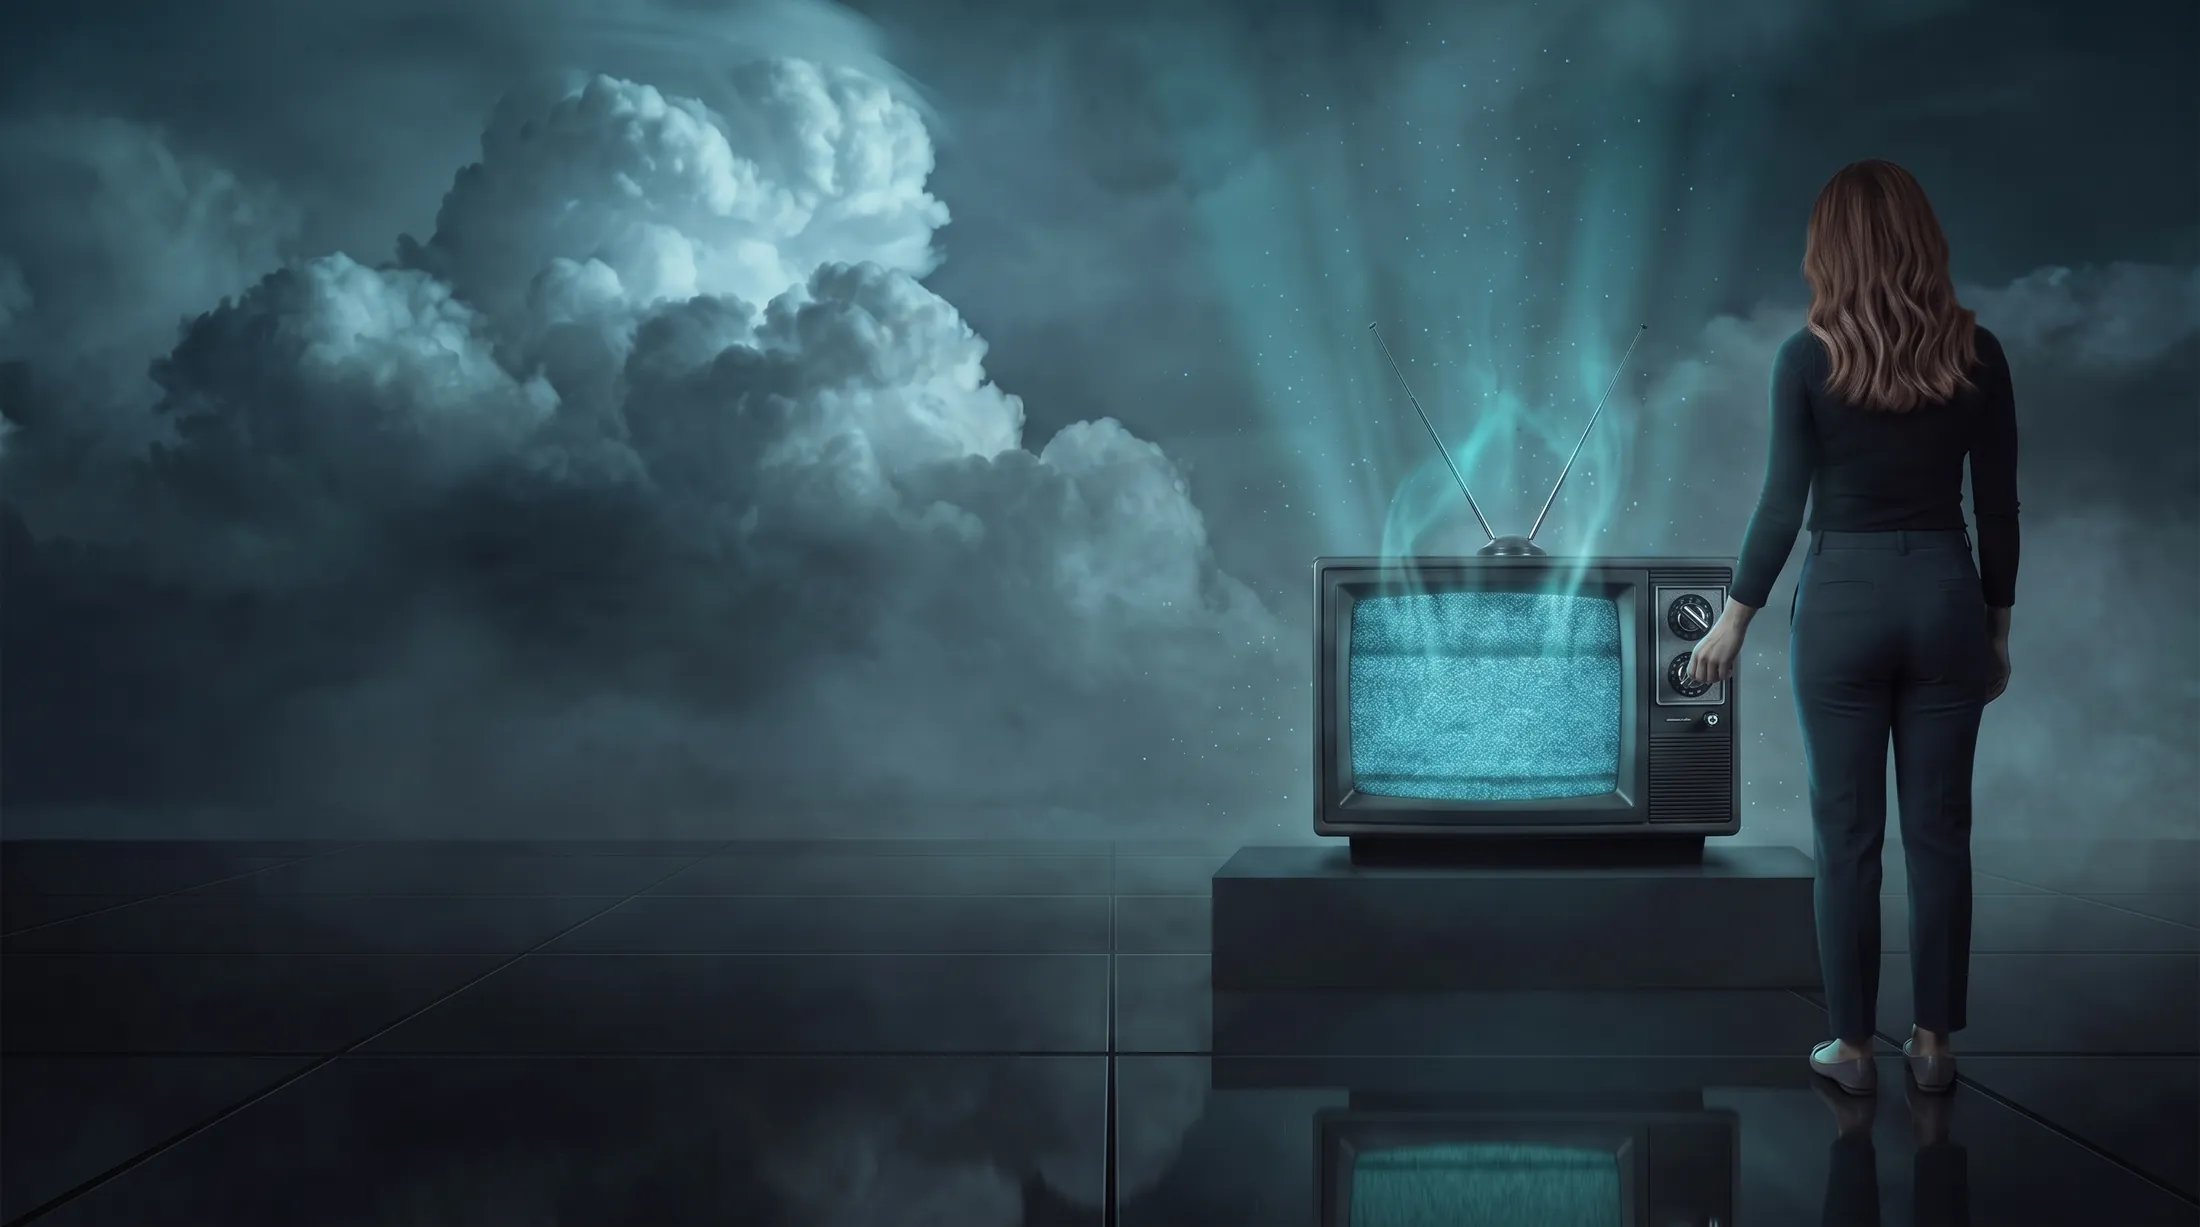
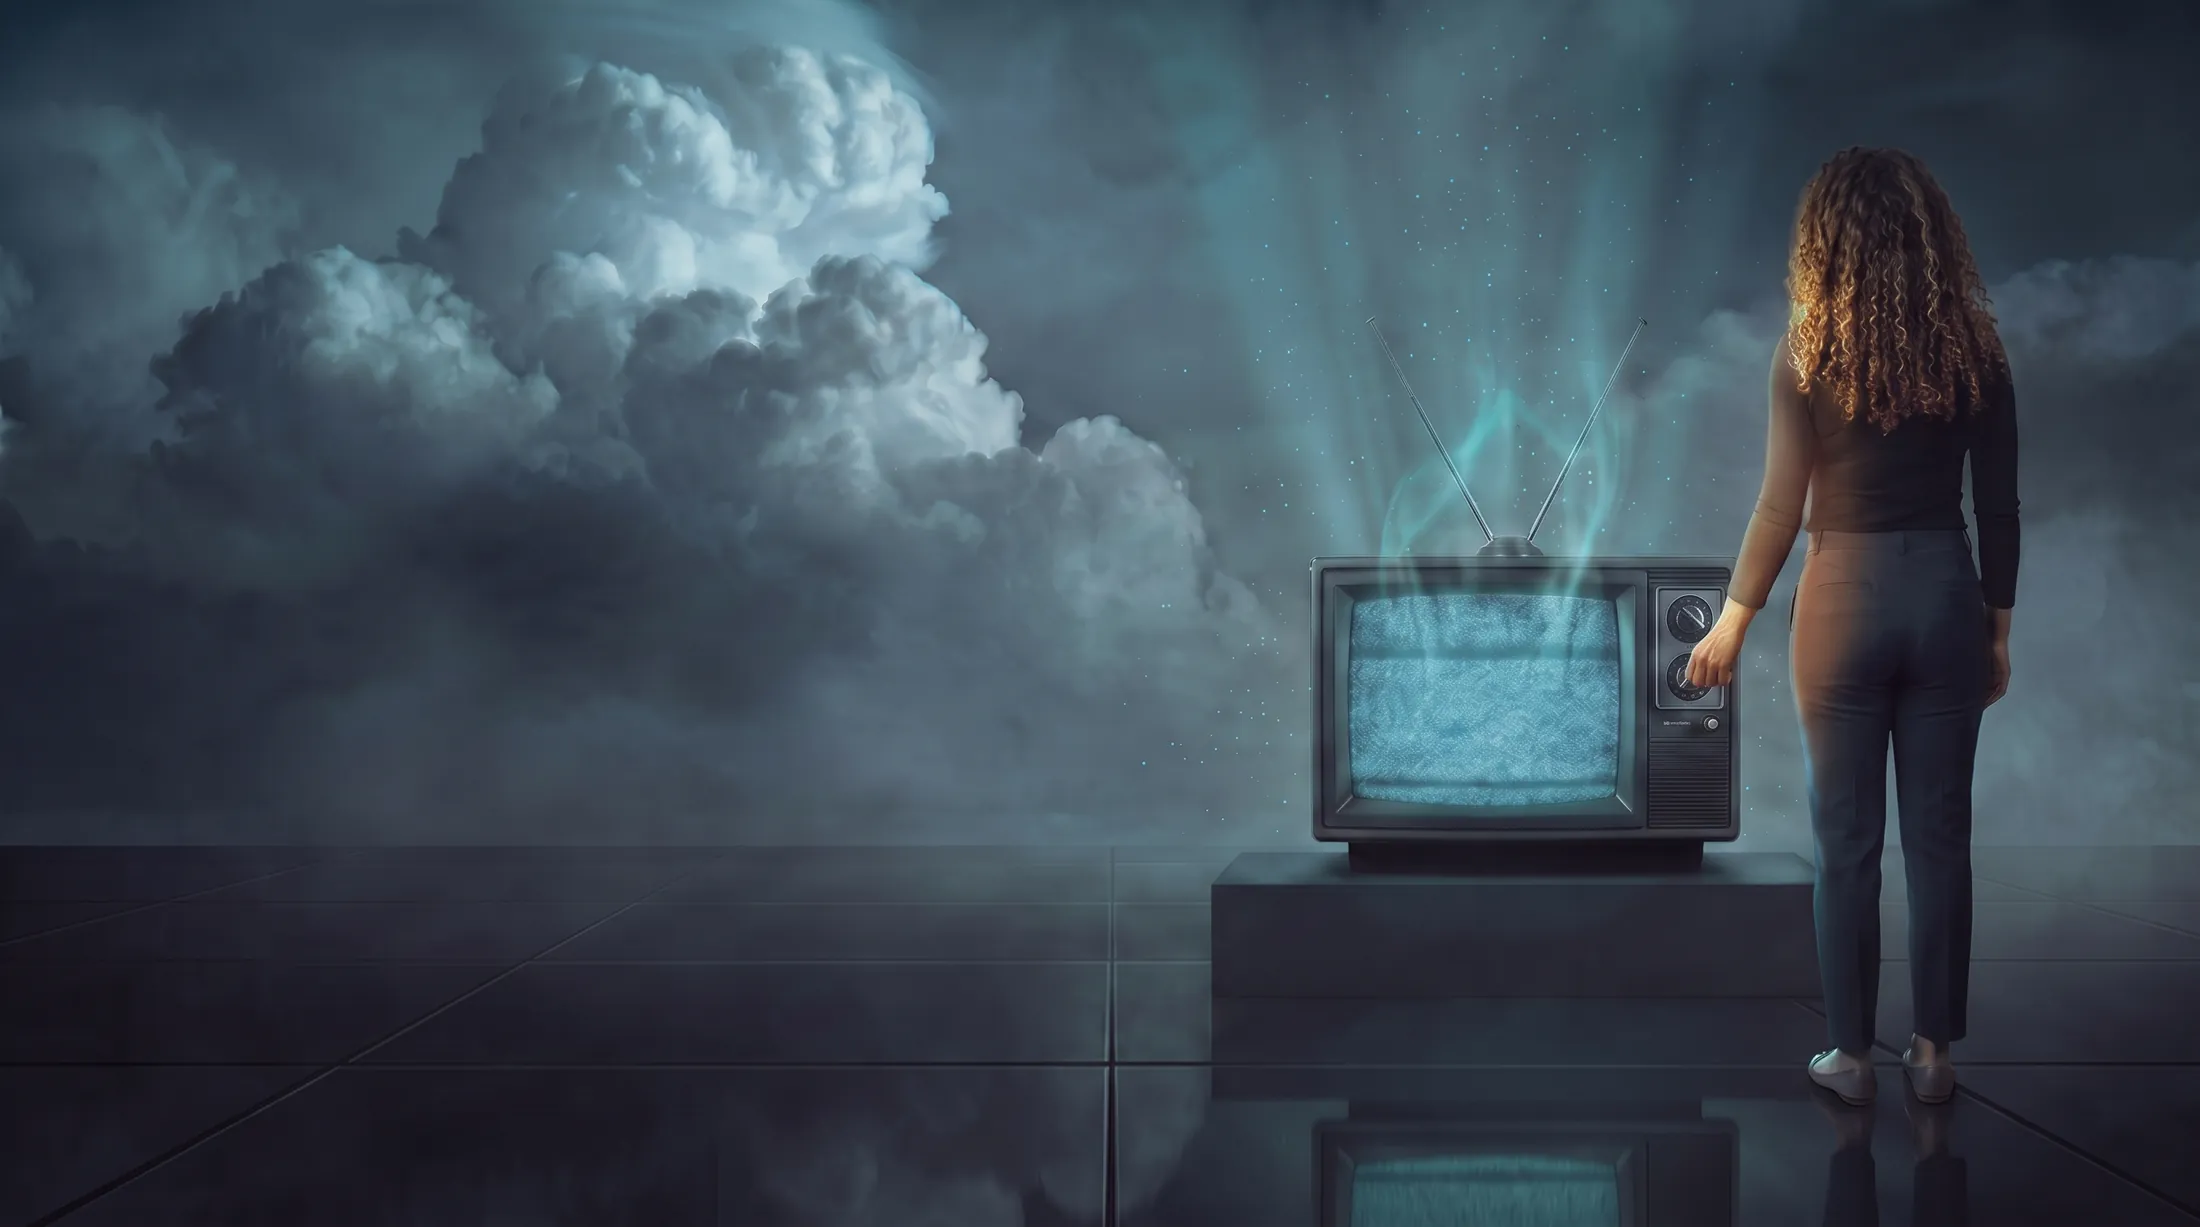
Hero: curly hair and warm skin tone from Ayanna's own photo
Built from her reference photograph: spiral curls at shoulder blade
length, brown, and a warm key on her body so her skin reads true instead
of being washed grey by the teal grade. The frame keeps its teal. The
descent is lengthened back to 230svh so all four lines play, with a
deeper overlap on the travel block to keep the exit near one screen.

diff --git a/app/ops.css b/app/ops.css
@@ -381,9 +381,9 @@ html.ops-has-remote .ops summary {
 .ops-glitch {
   position: absolute;
   left: 61.9%;
-  top: 48.3%;
+  top: 48.8%;
   width: 11.1%;
-  height: 15.7%;
+  height: 16%;
   overflow: hidden;
   border-radius: 13% / 15%;
   /* feather the edges so the static never crosses the bezel */
@@ -1487,7 +1487,7 @@ html.ops-has-remote .ops summary {
   padding-top: 0;
   padding-bottom: 0;
   /* the scroll distance the descent plays over */
-  min-height: 150svh;
+  min-height: 230svh;
 }
 
 .ops-descent__stage {
@@ -1607,7 +1607,7 @@ p.ops-descent__line {
 .ops-travel-sec {
   position: relative;
   z-index: 1;
-  margin-top: -42svh;
+  margin-top: -58svh;
   padding-top: clamp(90px, 14vh, 190px);
   background: var(--bg);
   box-shadow: 0 -40px 60px 20px var(--bg);
